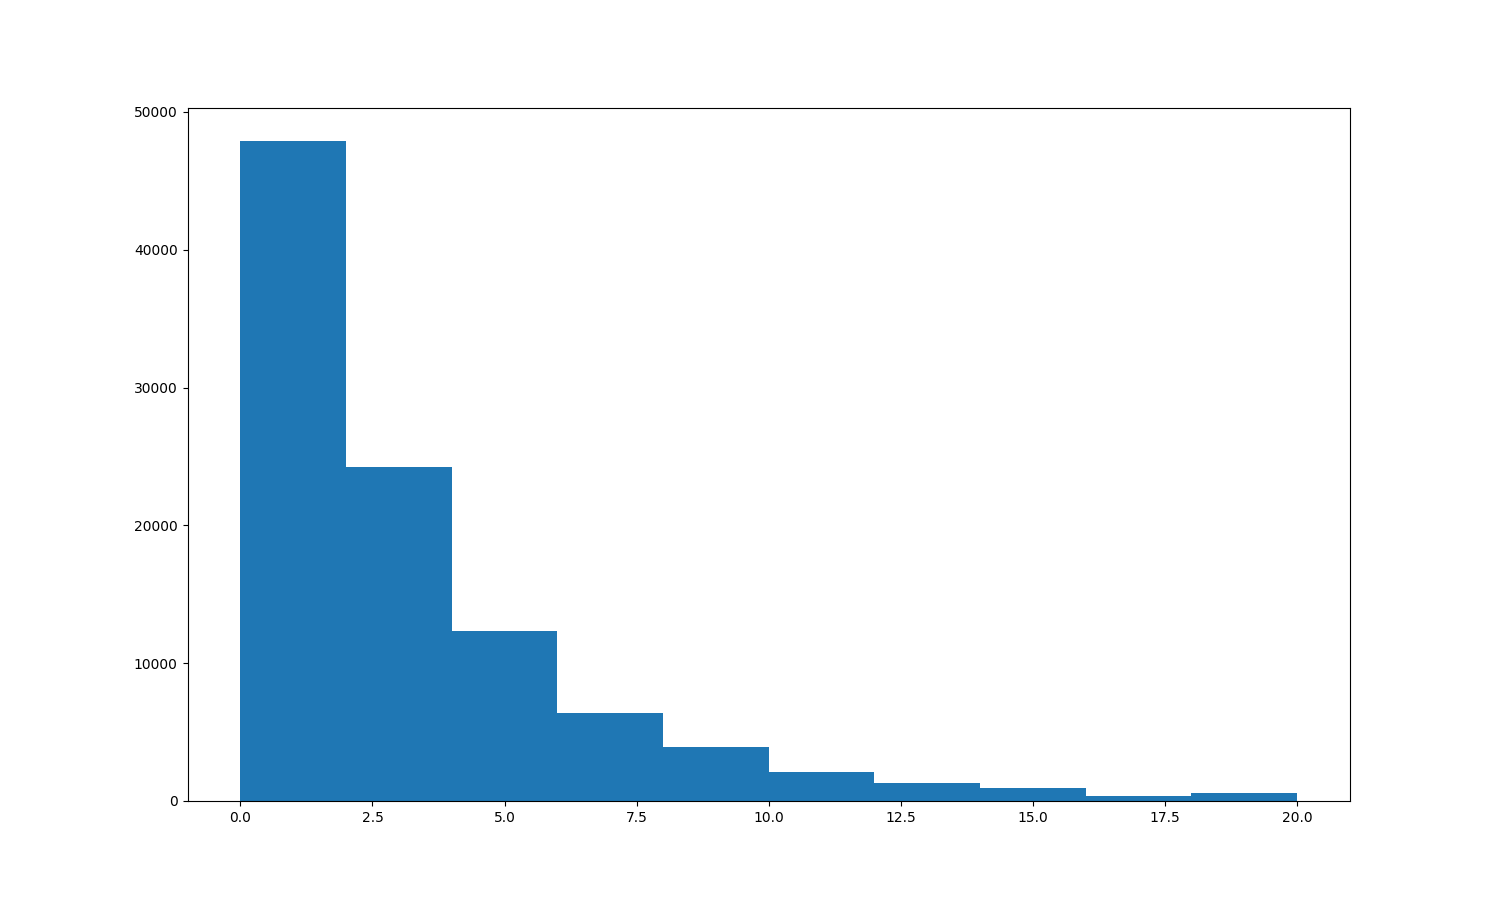
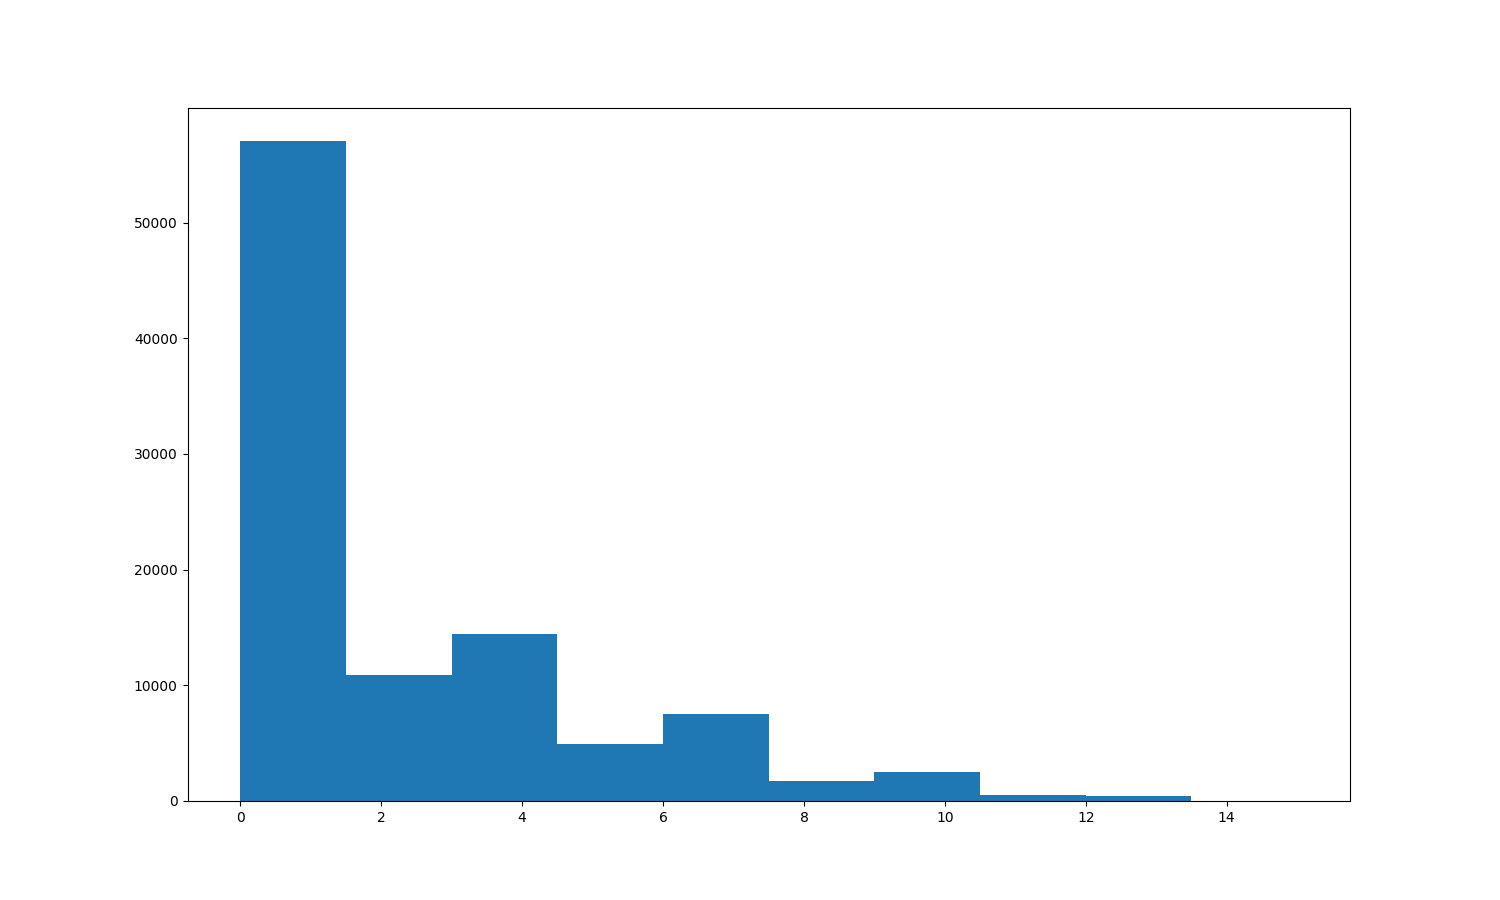
Fix logic with some improvements

diff --git a/TP-2/Ejercicio2.py b/TP-2/Ejercicio2.py
@@ -1,5 +1,6 @@
 import random as rn
 import sys
+import numpy as np
 import matplotlib.pyplot as plt
 
 # Cola M/M/1
@@ -11,32 +12,54 @@ def simular(ms):
 	estados = []
 	cantidadEnCola = 0
 	cantidadVecesInactiva = 0
-	PROBABILIDAD_NUEVA_SOLICITUD = p*(1-q)
-	PROBABILIDAD_DE_TERMINAR = q*(1-p)
+	solicitudEnProceso = False
 	# tiempo = 0
 	for tiempo in range(ms):
-		if (rn.random() <= PROBABILIDAD_NUEVA_SOLICITUD):
-			cantidadEnCola += 1
-		if (rn.random() <= PROBABILIDAD_DE_TERMINAR and cantidadEnCola > 0):
-			cantidadEnCola -=1
+		if solicitudEnProceso and rn.random() <= q:
+			solicitudEnProceso = False
+			if (cantidadEnCola > 0):
+				cantidadEnCola -=1
+				solicitudEnProceso = True
+
+		if (rn.random() <= p):
+			if solicitudEnProceso: 
+				cantidadEnCola += 1
+			else:
+				solicitudEnProceso = True
+
 		tiempos.append(tiempo)
 		estados.append(cantidadEnCola)
-		if (cantidadEnCola == 0):
+		if (not solicitudEnProceso):
 			cantidadVecesInactiva+=1
 
 	return tiempos, estados, cantidadVecesInactiva
 
 
 tiempo = 100000
-print("c. Realice un gráfico mostrando la cantidad de solicitudes en el servidor en cada instante de tiempo.")
+print("b. Realice un gráfico mostrando la cantidad de solicitudes en el servidor en cada instante de tiempo.")
 tiempos, estados, cantidadVecesInactiva = simular(tiempo)
 plt.plot(tiempos, estados)
 plt.savefig(sys.path[0] + "/E02-cantidad-solicitudes-por-instante.png")
 
-print("d. Realice un histograma mostrando cuantas veces el sistema estuvo en cada estado")
+print("c. Realice un histograma mostrando cuantas veces el sistema estuvo en cada estado")
 plt.figure(figsize=(15,9))
 plt.hist(estados)
 plt.savefig(sys.path[0] + "/E02-cantidad-solicitudes-histograma.png")
+plt.clf()
+plt.cla()
+plt.close()
 
 print("d. Determine el % de tiempo que el servidor se encuentra sin procesar solicitudes")
-print(cantidadVecesInactiva / len(estados) * 100 , "%")
+
+# Realizo 1000 simulaciones
+cantidad_simu = 1000
+cantidades_inactivas = []
+rango_simulaciones = range(cantidad_simu) 
+for x in rango_simulaciones:
+	tiempos, estados, cantidadVecesInactiva = simular(tiempo)
+	cantidades_inactivas.append(cantidadVecesInactiva)
+
+plt.figure(figsize=(15,9))
+plt.plot( rango_simulaciones, cantidades_inactivas)
+plt.savefig(sys.path[0] + "/E02-cantidad-veces-inactivas-por-instante.png") 
+print(sum(cantidades_inactivas) / ( tiempo * cantidad_simu ) * 100 , "%")
